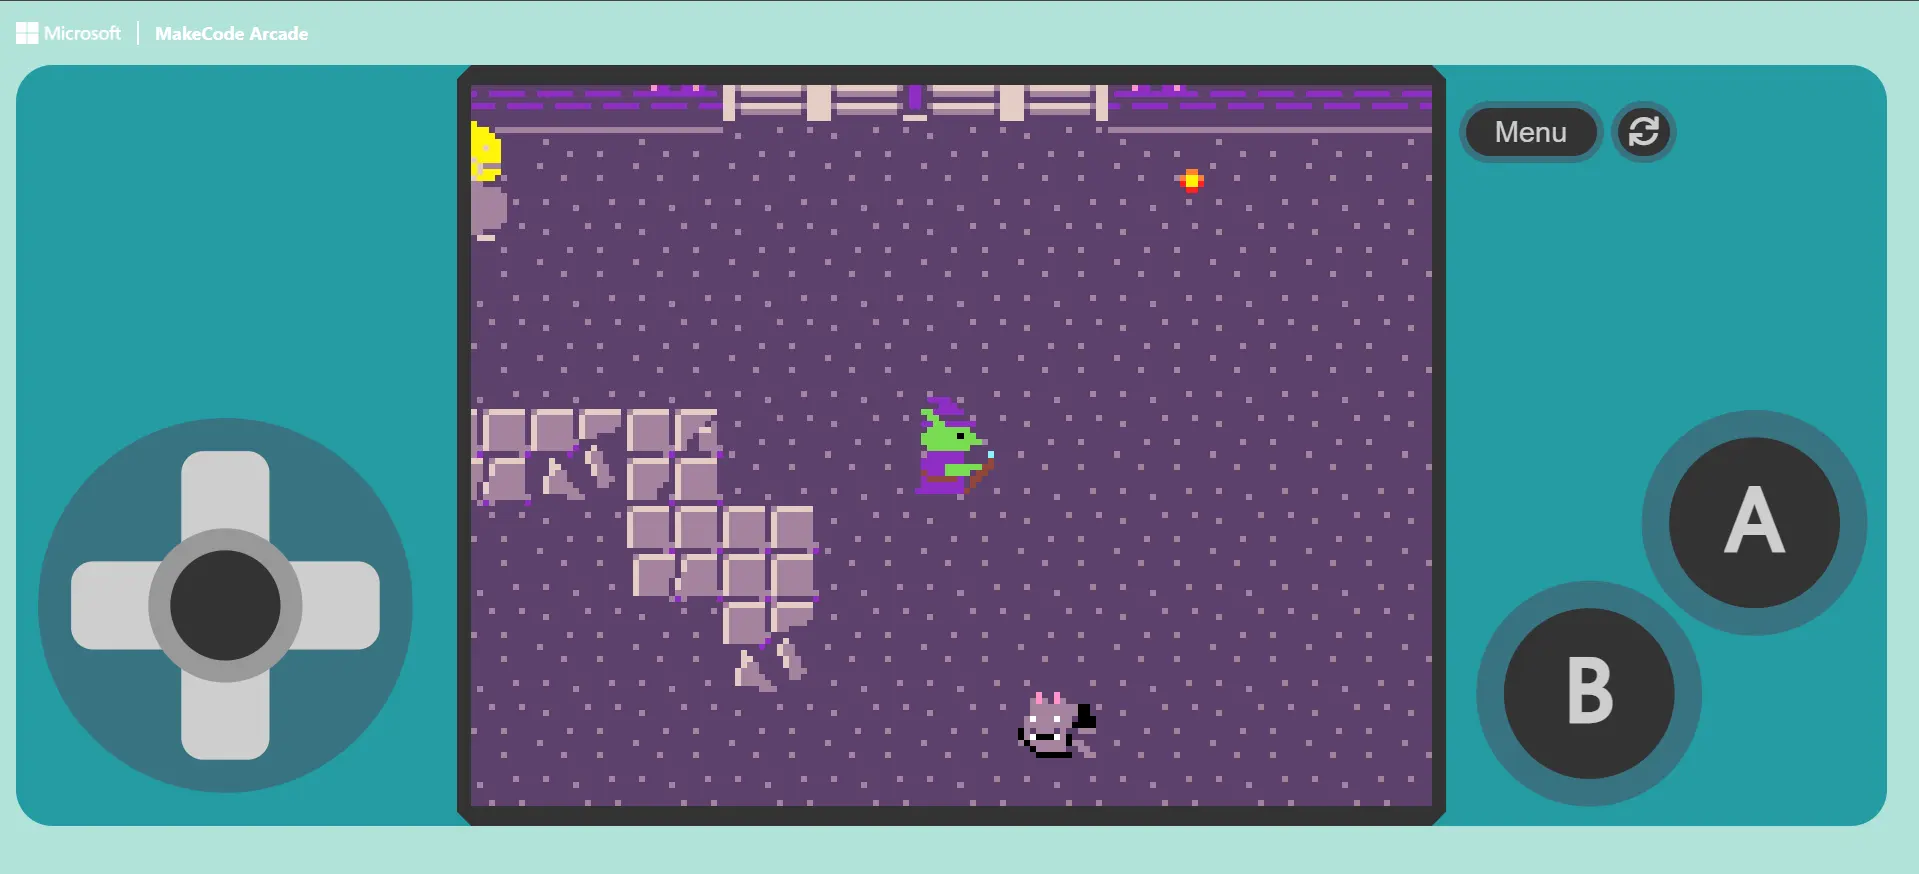
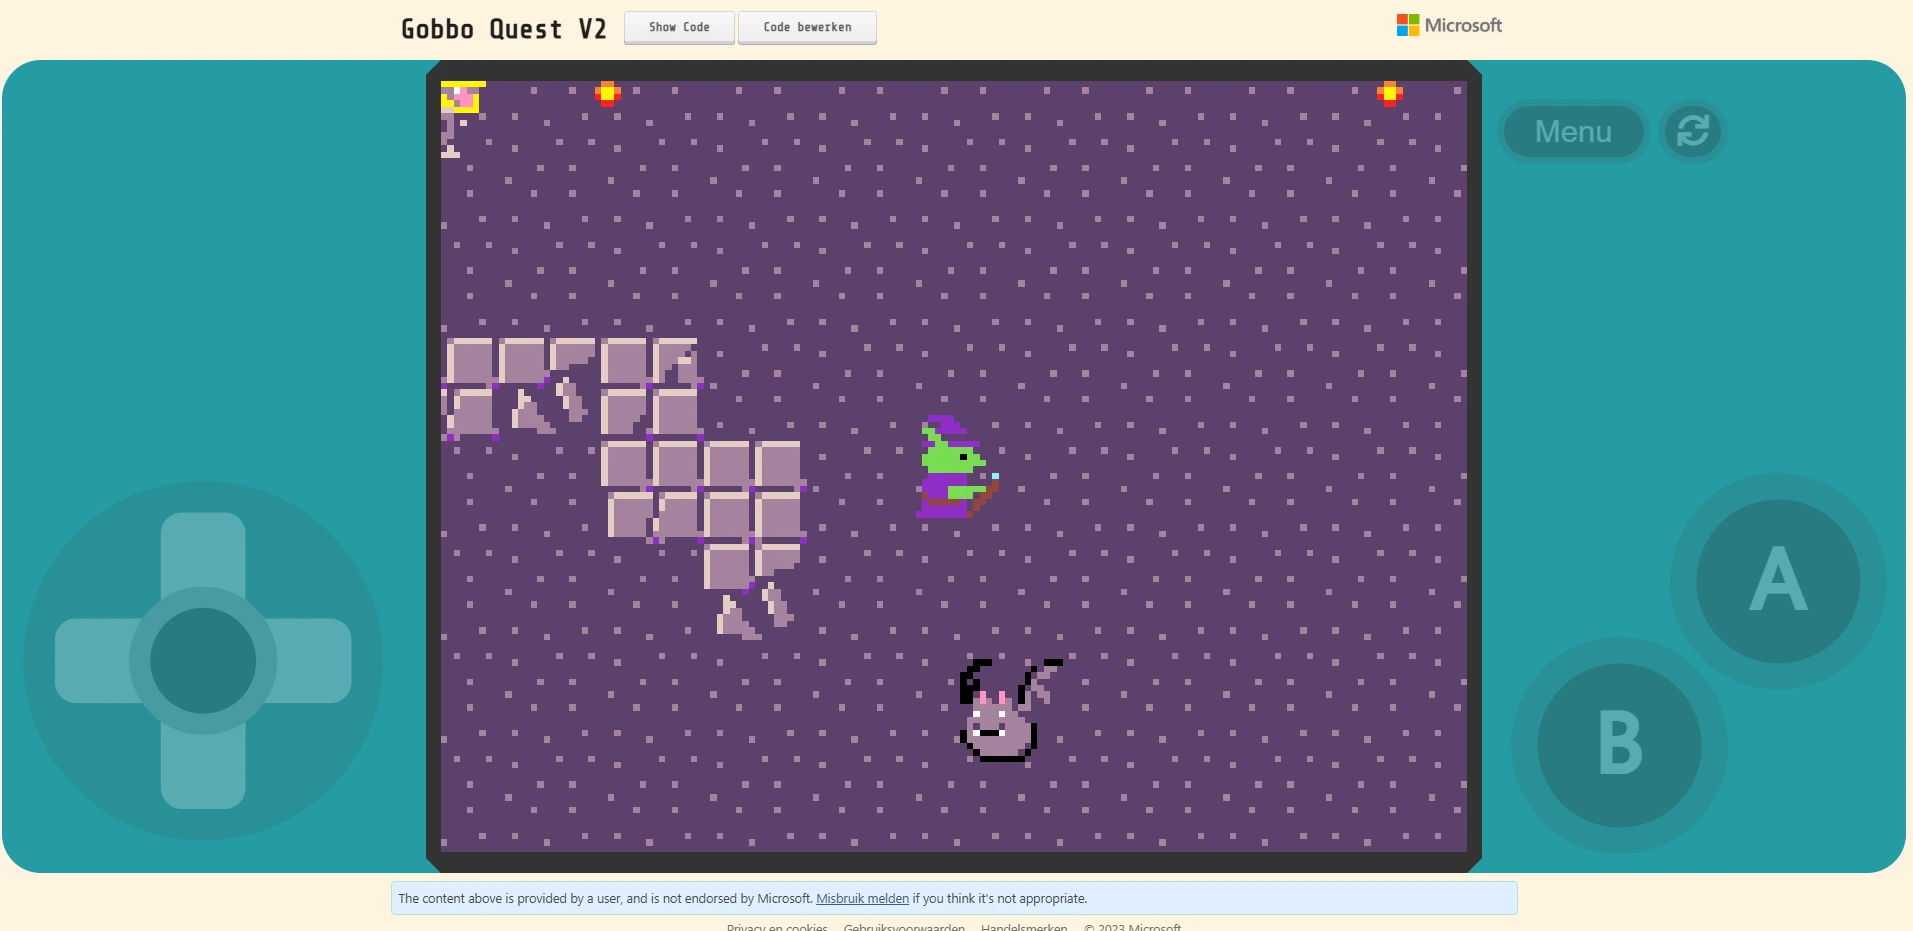
Updated ProjectGobboQuest.jsx

diff --git a/src/projects/ProjectGobboQuest.jsx b/src/projects/ProjectGobboQuest.jsx
@@ -3,7 +3,7 @@ import { SiJavascript } from "react-icons/si";
 import CarouselComponent from "../ProjectCarousel.jsx";
 
 function ProjectGobboQuest() {
-    const carouselImages = ['/gobbo-quest.webp', '/gobbo-quest.webp', '/gobbo-quest.webp'];
+    const carouselImages = ['/gobbo-quest.webp', '/gobbo-quest-2.webp', '/gobbo-quest-3.webp'];
 
     return (
         <div className="gradient-background min-h-screen">
